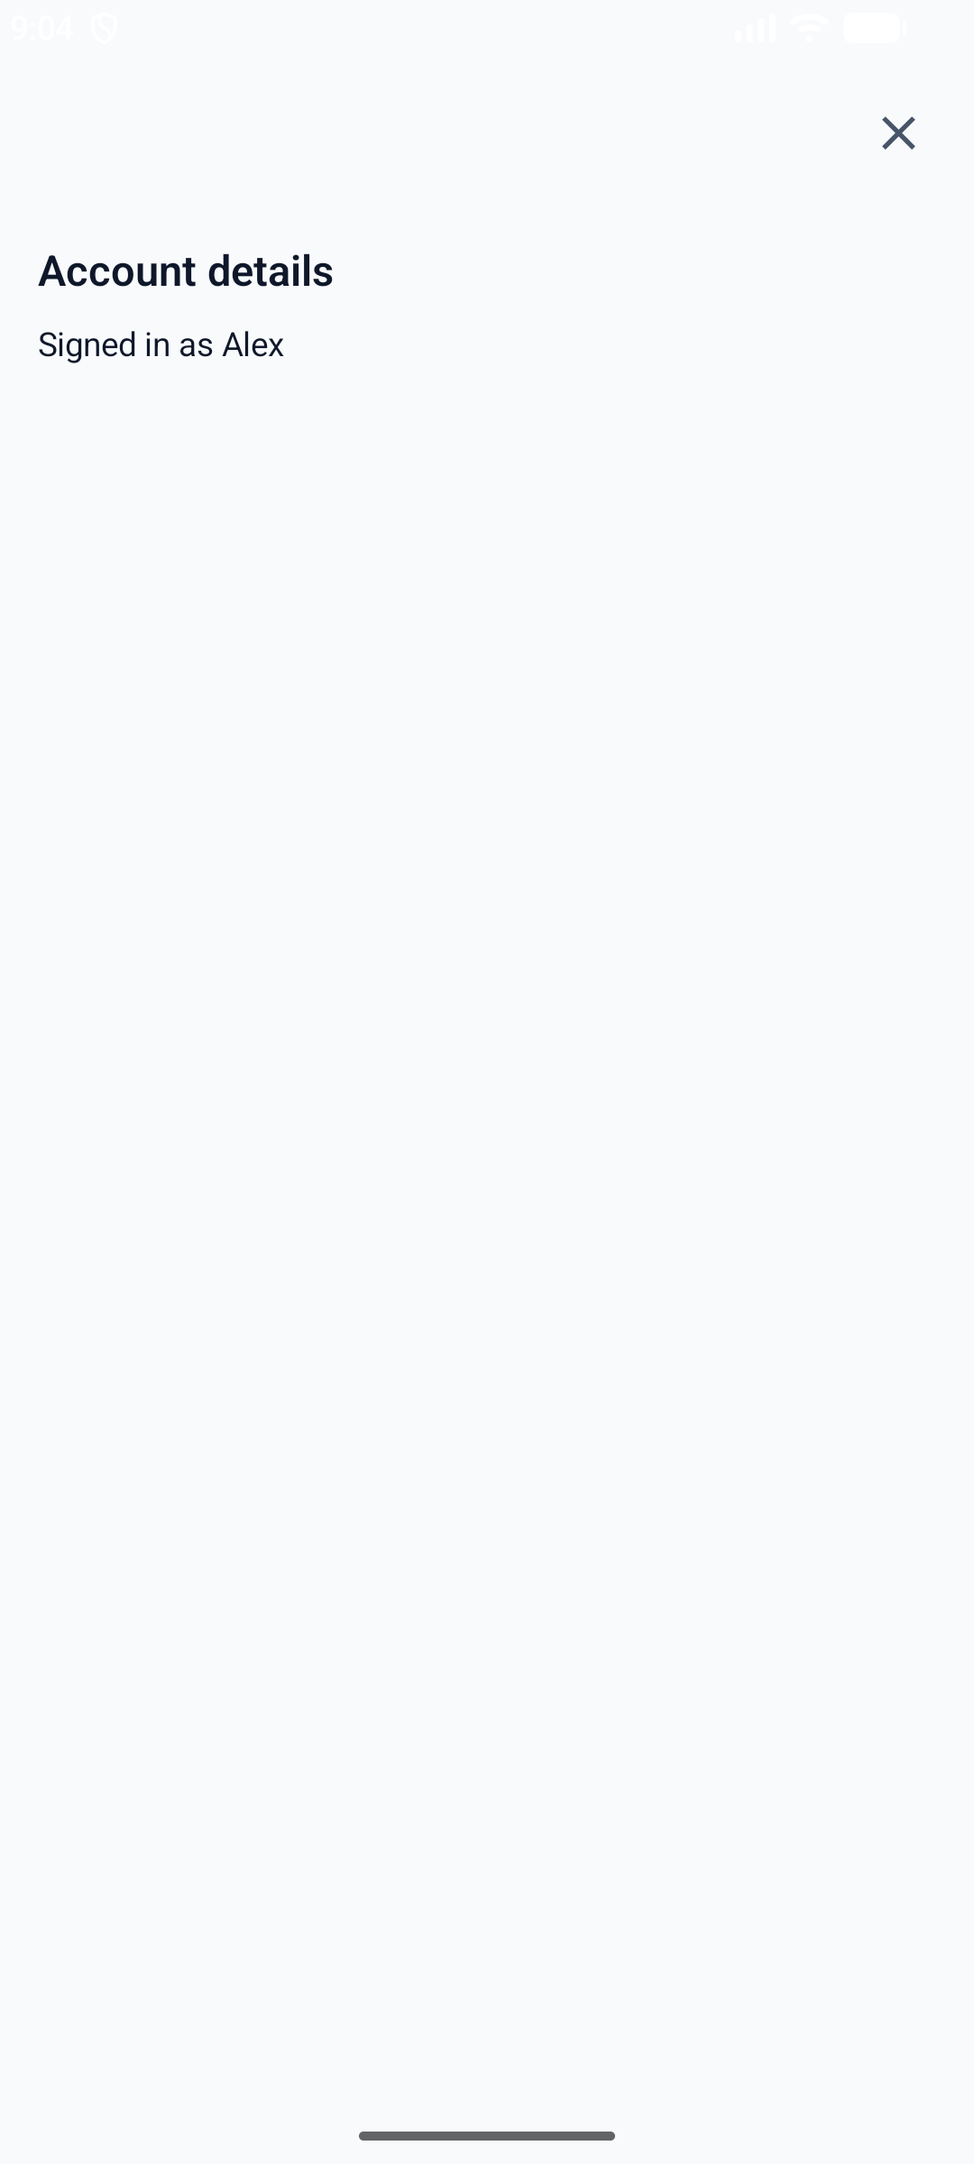
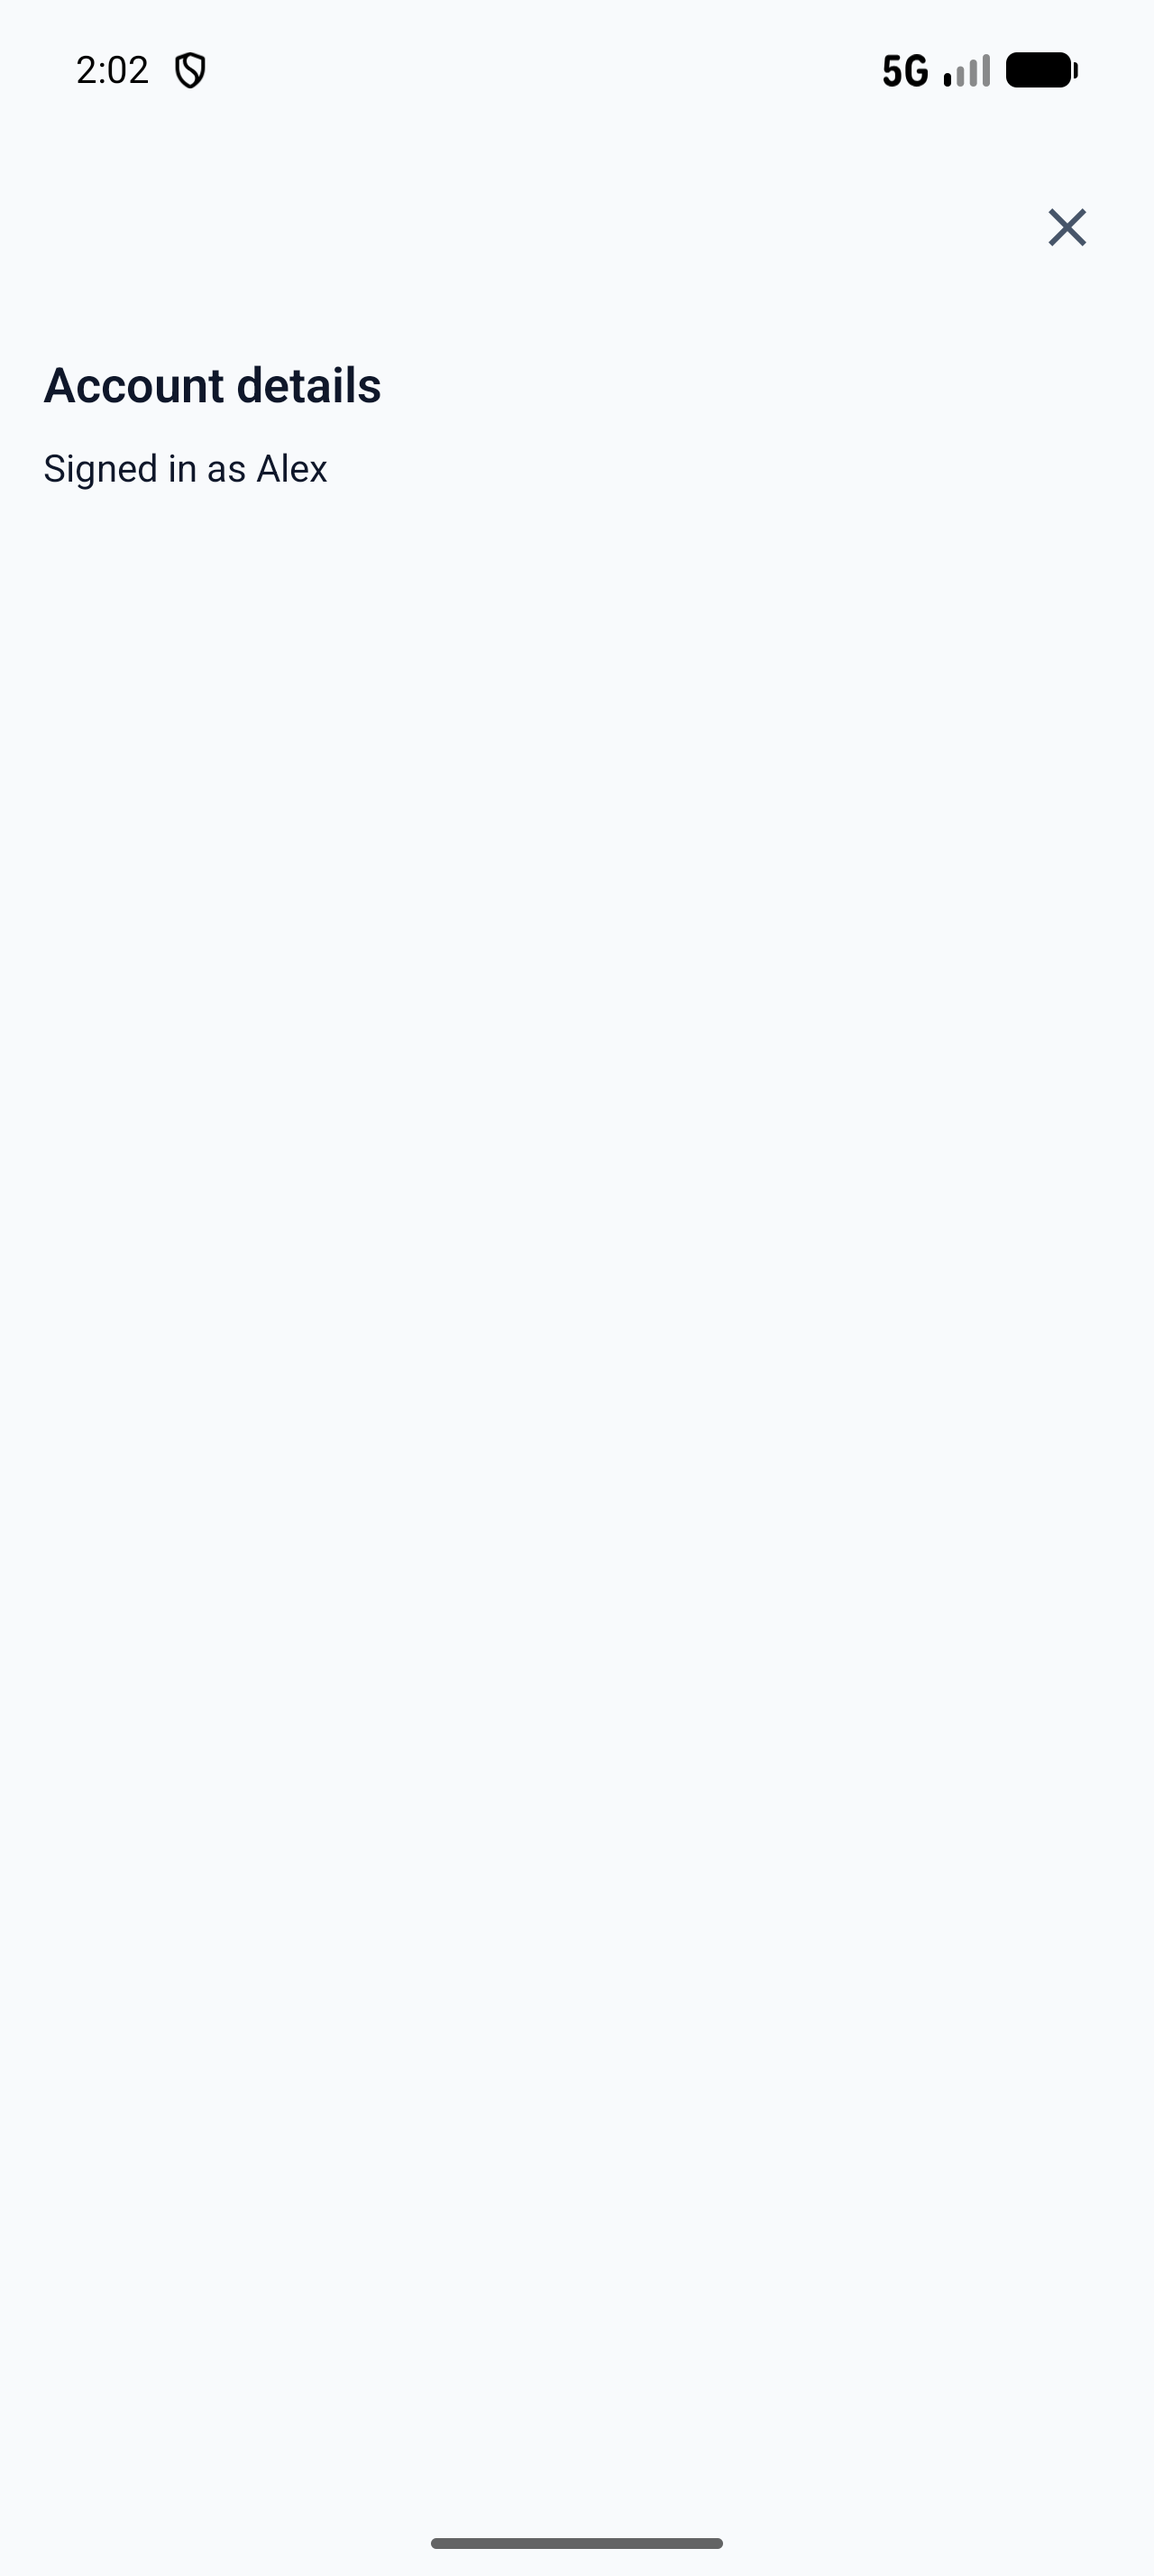
Require Mobile UI 0.10
Mobile UI 0.10.0 fixes the Android Modal's status-bar icons, which drew
white over a light modal, and gives the iOS ghost button a 44 pt target.
The compatibility docs, README, firstlight-init skill and agent notes now
name ^0.10.0, and the Modal screenshots are recaptured on it.

Amp-Thread-ID: https://ampcode.com/threads/T-01a1dca0-8660-73ca-b541-c07f690843ea

diff --git a/tests/Feature/PluginManifestTest.php b/tests/Feature/PluginManifestTest.php
@@ -8,7 +8,7 @@ it('declares the Firstlight package identity', function () {
         ->and($composer['type'])->toBe('nativephp-ui-plugin')
         ->and($composer['require']['php'])->toBe('^8.4')
         ->and($composer['require']['nativephp/mobile'])->toBe('^4.8')
-        ->and($composer['require']['nativephp/mobile-ui'])->toBe('^0.9')
+        ->and($composer['require']['nativephp/mobile-ui'])->toBe('^0.10')
         ->and($composer['require-dev']['pestphp/pest'])->toBe('^5.0')
         ->and($composer['autoload']['psr-4'])->toBe(['FirstlightUI\\' => 'src/'])
         ->and($manifest['name'])->toBe('firstlightui/nativephp')

diff --git a/AGENTS.md b/AGENTS.md
@@ -13,7 +13,7 @@
 ## Learned Workspace Facts
 
 - Firstlight UI (`firstlightui/nativephp`) exposes a shared EDGE API backed by SwiftUI and Jetpack Compose for NativePHP; public docs are at https://firstlightui.dev.
-- Firstlight's publication contract is `FirstlightUI\NativeComponent`: final chrome-wrapped roots carry a private process-wide increasing `firstlight_response_revision`; Blade is automatic, programmatic roots return `$this->response($element)`, nested children and partials are unstamped, and streaming is final-disabled. Use official unpatched Mobile `^4.7.0` / UI `^0.9.0` binaries; #365 remains upstream but is no longer the release dependency. 1.0.0 shipped after physical-device testing, including VoiceOver on iOS; spoken TalkBack and soak/performance evidence are not recorded. Revisions are not per-event acknowledgements or concurrency serialization.
+- Firstlight's publication contract is `FirstlightUI\NativeComponent`: final chrome-wrapped roots carry a private process-wide increasing `firstlight_response_revision`; Blade is automatic, programmatic roots return `$this->response($element)`, nested children and partials are unstamped, and streaming is final-disabled. Use official unpatched Mobile `^4.8.0` / UI `^0.10.0` binaries; #365 remains upstream but is no longer the release dependency. 1.0.0 shipped after physical-device testing, including VoiceOver on iOS; spoken TalkBack and soak/performance evidence are not recorded. Revisions are not per-event acknowledgements or concurrency serialization.
 - Catalogue boundary: new `<firstlight:...>` tags only for semantic controls with equal iOS/Android contracts; layout and navigation chrome stay in Mobile UI; Laravel familiarity is delivered via PHP SuperNative extensions.
 - SuperNative PHP helpers live as concerns on `NativeComponent` (for example `ValidatesFields`, `SubmitsForms`, `AuthorizesActions`, `PaginatesLists`, `DestroysListItems`).
 - Approved Media field is `<firstlight:media>` binding `?MediaValue` (default disk `mobile_public`); image mode uses a Firstlight-owned crop sheet, document mode uses the system file picker.

diff --git a/spec/components/transient-feedback.md b/spec/components/transient-feedback.md
@@ -152,7 +152,7 @@ Excluded public capabilities are Blade authoring, host installation, arbitrary d
 
 ## Compatibility and evidence boundary
 
-The declared floors are PHP 8.4, NativePHP Mobile 4.7, NativePHP Mobile UI 0.9, iOS 18.2, Android API 29, and Swift tools 6.2. `nativephp.json` must retain exact init functions `registerFirstlightUI` and `dev.firstlightui.plugins.firstlight_ui.registerFirstlightUI`, with no `bridge_functions` key.
+The declared floors are PHP 8.4, NativePHP Mobile 4.8, NativePHP Mobile UI 0.10, iOS 18.2, Android API 29, and Swift tools 6.2. `nativephp.json` must retain exact init functions `registerFirstlightUI` and `dev.firstlightui.plugins.firstlight_ui.registerFirstlightUI`, with no `bridge_functions` key.
 
 Current executable evidence covers the PHP facade/store/events, child-registry callbacks, navigation refresh, event ordering, queue/tombstones, platform timing, lifecycle suspension, accessibility semantics, init registration, large-text and RTL test cases, and API 29 compilation. Snapshot suites and committed goldens cover tones, actions, held feedback, long copy, large text, and RTL, but only a fresh passing `verifyPaparazziDebug` establishes current Android visual-regression evidence. The registered showcase route is `/captures/transient-feedback` with a focused `TransientFeedbackCaptureTest.php` command and four standard image outputs.
 

diff --git a/CHANGELOG.md b/CHANGELOG.md
@@ -10,6 +10,7 @@ All notable changes to this project will be documented in this file.
 
 ### Changed
 
+- Requires `nativephp/mobile-ui` `^0.10`. Mobile UI 0.10 fixes the Android Modal's status-bar icons, which drew white on a light modal, and gives the iOS ghost button a 44 pt target, among other fixes. Run `composer update` and `php artisan native:install --force`.
 - Icon Button: an icon button with no `variant` is now `ghost`, a plain icon in the primary colour, like Material 3's standard icon button and an iOS plain button. It was `primary`, a filled circle. Set `variant="primary"` on a screen's one main icon action to keep the filled look. Targets stay at least 44 pt on iOS and 48 dp on Android.
 - Button on iOS: `secondary` draws as SwiftUI's `.bordered` style, a light tint of the secondary colour with the label in that colour, which is Apple's emphasis for secondary actions. It was a second filled button. Android's tonal button is unchanged, and glass secondary buttons keep Liquid Glass.
 - Icon Button on Android: icons are drawn at their size's glyph size (16, 20 or 24 dp). They were drawn at 24 dp inside smaller boxes, which clipped the bottom of glyphs such as share and lock and made `lg` no larger than `md`.

diff --git a/docs/reference/compatibility.md b/docs/reference/compatibility.md
@@ -20,7 +20,7 @@ sources:
 | --- | --- |
 | PHP | `^8.4` |
 | NativePHP Mobile | `^4.8.0` |
-| NativePHP Mobile UI | `^0.9.0` |
+| NativePHP Mobile UI | `^0.10.0` |
 | iOS application target | iOS 18.2 or later |
 | Android application target | API 29 or later |
 | Firstlight Swift package | iOS 18.2 or later |
@@ -32,7 +32,7 @@ After changing NativePHP versions, run `composer update` and `php artisan native
 
 Mobile 4.7 supplies the validation and Android focused-input flush seams
 Firstlight uses, and compiles Media's `@clear` from the manifest's
-`element_events`; Mobile UI 0.9 requires Mobile 4.7. `ValidatesFields` extends
+`element_events`. Mobile UI 0.10 requires Mobile 4.8. `ValidatesFields` extends
 upstream `ValidatesInput`, and native and Firstlight fields share the current
 `FieldErrors` bag. Existing Firstlight screen code does not need a trait swap.
 

diff --git a/docs/components/transient-feedback.md b/docs/components/transient-feedback.md
@@ -259,7 +259,7 @@ Both platforms own one visible item and the same FIFO/event contract. Native exp
 
 ## Compatibility
 
-Transient Feedback supports the package versions and platform floors in the current [compatibility reference](../reference/compatibility.md): PHP 8.4, NativePHP Mobile 4.8, NativePHP Mobile UI 0.9, iOS 18.2 or later, and Android API 29 or later. Both Firstlight native hosts must be compiled into the application.
+Transient Feedback supports the package versions and platform floors in the current [compatibility reference](../reference/compatibility.md): PHP 8.4, NativePHP Mobile 4.8, NativePHP Mobile UI 0.10, iOS 18.2 or later, and Android API 29 or later. Both Firstlight native hosts must be compiled into the application.
 
 ## Screenshots
 

diff --git a/resources/boost/skills/firstlight-init/SKILL.md b/resources/boost/skills/firstlight-init/SKILL.md
@@ -11,7 +11,7 @@ Get a developer from `composer require` to a running, themed, tested app built f
 
 Confirm, and fix with the developer's agreement:
 
-- `composer.json` requires `nativephp/mobile` `^4.8.0`, `nativephp/mobile-ui` `^0.9.0` and `firstlightui/nativephp` `^1.0`.
+- `composer.json` requires `nativephp/mobile` `^4.8.0`, `nativephp/mobile-ui` `^0.10.0` and `firstlightui/nativephp` `^1.0`.
 - The plugin is registered: `php artisan native:plugin:register`.
 - PHP `^8.4`, iOS 18.2+ and Android API 29+ targets. See https://firstlightui.dev/docs/reference/compatibility.
 

diff --git a/docs/getting-started/installation.md b/docs/getting-started/installation.md
@@ -22,7 +22,7 @@ Jetpack Compose controls.
 
 Start with a NativePHP Mobile 4 application that meets the [current compatibility requirements](../reference/compatibility.md).
 
-Use NativePHP Mobile `^4.8.0` and Mobile UI `^0.9.0`, with iOS 18.2+ or
+Use NativePHP Mobile `^4.8.0` and Mobile UI `^0.10.0`, with iOS 18.2+ or
 Android API 29+. Firstlight screens must
 extend `FirstlightUI\NativeComponent` for the
 [response-revision contract](../reference/compatibility.md#runtime-response-contract).

diff --git a/README.md b/README.md
@@ -48,7 +48,7 @@ Each recipe is a complete screen. Each one runs unchanged in the [showcase app](
 | --- | --- |
 | PHP | `^8.4` |
 | NativePHP Mobile | `^4.8.0` |
-| NativePHP Mobile UI | `^0.9.0` |
+| NativePHP Mobile UI | `^0.10.0` |
 | iOS / Android targets | iOS 18.2+ / API 29+ |
 
 See [Compatibility](https://firstlightui.dev/docs/reference/compatibility) for the full table.
